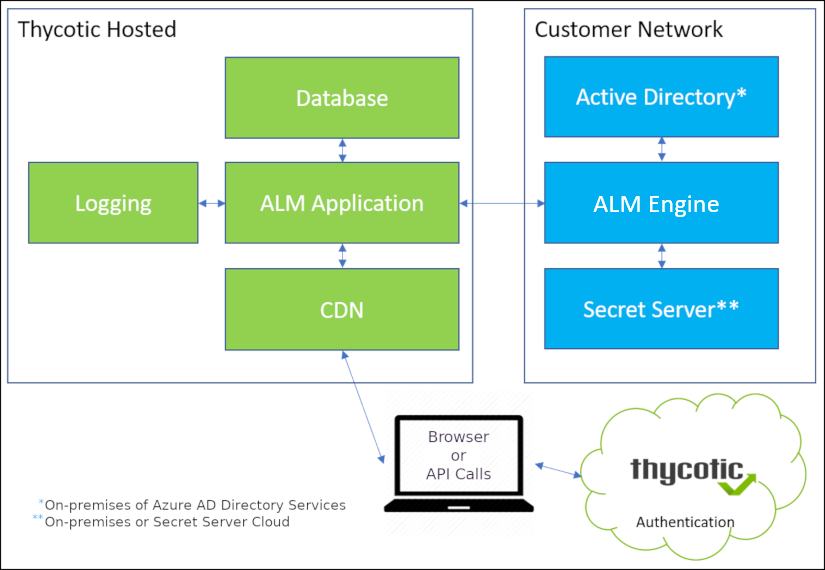
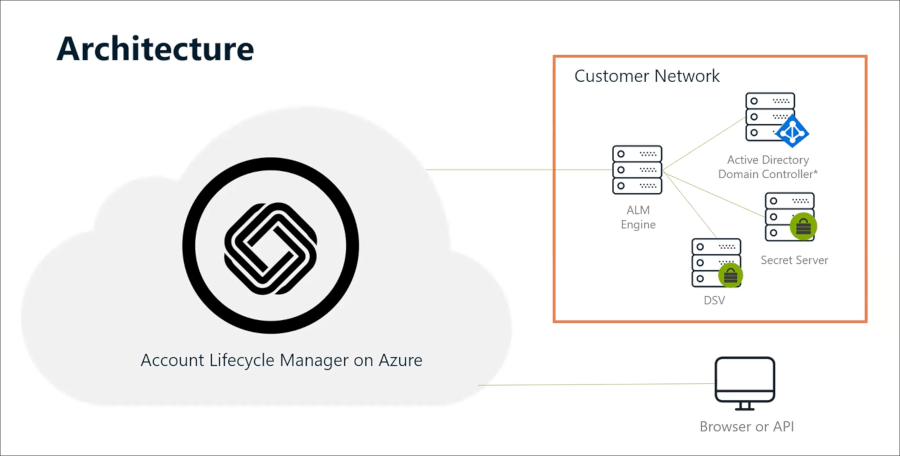
recovery edits batch main

diff --git a/release-notes.md b/release-notes.md
@@ -10,9 +10,19 @@ This article tracks those changes to ALM. Highlights of the most recent update a
 
 ## December 2019 Release Highlights
 
-With December’s release, Account Lifecycle Manager gained more robust Active Directory user synchronization, with formerly separate sync operations consolidated to obtain full domain synchronization. Two new built-in objects, the Everyone Group and the Account Owner Role, combine to remove much of the administrative overhead for the bulk of ALM users. Finally, a matured Remote Worker has taken on a new name, ALM Engine, to better indicate its nature, and its recently released beta features continue to mature with the December release.
+ALM has increased Secret Server support by adding DevOps Secrets Vault as a vault option for managed accounts.
 
-### Beta Feature Release: ALM Engine Configuration Website Tool
+ALM’s Active Directory syncing features improved via consolidation of formerly separate syncs. Syncs that until now had to be run separately for particular types of AD objects now can be run together as a single operation.
+
+A new tool allows you to select a specific AD Group and have its AD Accounts imported and subsequently synced on a schedule.
+
+A new built-in ALM Group, Everyone, automatically includes all ALM Users and applies thereby the new built-in Role of Account Owner, allowing a user to view their owned (assigned) accounts.
+
+The Remote Worker has been renamed ALM Engine to make its function more readily understood, and its beta features previewed in November continue to be available in December as they mature.
+
+New UI detailing on Left Panel Wizards and certain detail pages provide improved context and cognitive cueing about items displayed to (and actions requested of) the user.
+
+## Beta Feature Release: ALM Engine Configuration Website Tool
 
 On successful installation of an ALM Engine on a machine, a website hosted locally on that machine will be set to automatically load to provide an interface and toolset for configuring the Secret Server vault, setting up the External Domain (Active Directory), and creating ALM Engine Pools. This should streamline the overall setup process for ALM Engines.
 
@@ -22,9 +32,12 @@ In this December’s second monthly release of the feature in beta, it remains s
 
 | **Update**             | **Notes**                                                                                                                                                           |
 |------------------------|---------------------------------------------------------------------------------------------------------------------------------------------------------------------|
-| December 2019          | improvement: syncing with Active Directory now takes less effort, with sync consolidation more automated and secured                                                |
-|                        | a new built-in Everyone Group and Account Owner Role combine to remove much administrative overhead for the bulk of ALM users                                       |
-|                        | the Remote Worker tool, now named ALM Engineer, continues to mature, with its advanced configuration tool again available this month in beta                         |
+| December 2019          | improvement: increased Secret Server support with DSV now a vault option for managed accounts                                                                       |
+|                        | improvement: syncing features improved via consolidation of formerly separate syncs to run as a single operation                                                    |
+|                        | improvement: new tool allows selection of a specific AD Group for its AD Accounts to be imported and then synced on a schedule                                      |
+|                        | improvement: new built-in ALM Group “Everyone” includes all ALM Users; applies new built-in Role of “Account Owner” to let users see their assigned accounts        |
+|                        | improvement: the Remote Worker renamed ALM Engine for clarity; beta features previewed in November continue to be available in December as they mature              |
+|                        | improvement: new UI detailing on Left Panel Wizards and certain detail pages creates more context and helps customers navigate                                      |
 |                        |                                                                                                                                                                     |
 | November 2019          | improvement: the Active Directory Account Discovery tool now supports New Account Notification to help ensure all AD accounts benefit from ALM governance tools     |
 |                        | improvement: new ALM Engine Calibration feature automates the determination of what ALM Engines have access to what Vaults and AD farms                             |

diff --git a/index.md b/index.md
@@ -6,7 +6,14 @@
 
 ---
 
-In December, consolidation brought improved efficiency and ease of use for ALM’s Active Directory syncing features. Formerly separately initiated syncs with Active Directory may now be performed as single operations. Additionally, a new built-in ALM group, Everyone, automatically includes all ALM users and applies a new built-in Account Owner Role. The Remote Worker has been renamed ALM Engine to make its function more readily understood, and its beta features previewed in November continue to be available in December as they mature.
+The December update to Account Lifecycle Manager brought a number of improvements:
+
+* The release extended support for Secret Server by adding DevOps Secrets Vault as a vault option for managed accounts.
+* Consolidation brought improved efficiency and ease of use to ALM’s Active Directory syncing features. Syncs that until now had to be run separately for particular types of AD objects now can be run together as a single operation.
+* A new tool allows you to select a specific AD Group and have its AD Accounts imported and subsequently synced on a schedule.
+* A new built-in ALM Group, Everyone, automatically includes all ALM Users and applies thereby the new built-in Role of Account Owner. The Account Owner role allows a user to view their owned accounts.
+* The Remote Worker has been renamed ALM Engine to make its function more readily understood, and its beta features previewed in November continue to be available in December as they mature.
+* New UI detailing on Left Panel Wizards and certain detail pages provide improved context and cognitive cueing about items displayed to (and actions requested of) the user.
 
 ---
 

diff --git a/get-started/integ-dsv/index.md b/get-started/integ-dsv/index.md
@@ -1,0 +1,24 @@
+[title]: # (Integrate ALM with DevOps Secrets Vault)
+[tags]: # (Account Lifecycle Manager,ALM,Active Directory,DevOps Secrets Vault,DSV)
+[priority]: # (5145)
+
+# Integrate ALM with DevOps Secrets Vault
+
+ALM integrates with Thycotic’s DevOps Secrets Vault (DSV) for storage and management of Account credentials. 
+
+Use these steps to integrate ALM with DevOps Secrets Vault:
+
+* in ALM, navigate to **Vaults** and select **Create Vault**
+* a modal pane will appear; open its **Template** drop-down and select *Thycotic DevOps Secrets Vault*
+* use **Next** to confirm that selection; then fill in the information it requires:
+  * the **Thycotic DevOps Secrets Vault Display Name** entry is the vault label in ALM that distinguishes it from other vaults 
+  * the **DevOps Secrets Vault URL** specifies the URL of your DevOps Secrets Vault instance 
+  * the **ClientID** records the Client ID of your DevOps Secrets Vault instance
+  * the **ClientSecret** is the password for your ClientID
+* use **Save** to confirm your entries 
+
+Once you have added it, you can select DevOps Secrets Vault as a vault option when creating Workflow Templates.
+
+* Requests made based on Workflow Templates that have a DevOps Secrets Vault will use DevOps Secrets Vault for the storage and management of Account credentials. 
+
+

diff --git a/get-started/create-roles/index.md b/get-started/create-roles/index.md
@@ -17,11 +17,13 @@ ALM supplies several default Roles, as in the following table, that your organiz
   
 | Default ALM Role     | Permissions                                      | 
 |----------------------|--------------------------------------------------|
+| Account Owner        | read managed Account                             |
+|                      | update managed Account
 | Provision Requester  | request a new Account                            |
 | Provision Approver   | Approve Requests                                 |
 | System Administrator | authorize all Role types                         |
 |                      | create Workflow Templates                        |
-|                      | set up ALM Engines                            |
+|                      | set up ALM Engines                               |
 |                      | perform ALM Integration with Active Directory    |
 |                      | perform ALM Integration with Secret Server       |
 

diff --git a/get-started/create-users/index.md b/get-started/create-users/index.md
@@ -30,7 +30,7 @@ Continue until you have created the ALM Users that enable your organization’s 
 
 Note that:
 
-* All ALM users automatically belong to a built-in Group called **Everyone**.
-* Membership in Everyone onfers status as an **Account Owner** without conferring any privileges beyond those of an Account Owner.
-* An Account Owner cannot do anything in ALM except see Accounts assigned to the Account Owner.
-* To act on assigned Accounts, the Account Owner would require additional permissions such as the capacity to approve or decline these requests for credentials. 
+* All ALM Users automatically belong to a built-in Group called **Everyone**.
+* The built-in Role called **Account Owner** cannot be removed from the **Everyone** Group.
+* Accordingly, all ALM Users have the Account Owner Role.
+* An Account Owner can read and update Accounts that the User has been assigned, that is, Accounts for which they are the Account Owner.

diff --git a/alm-objects/custom-roles.md b/alm-objects/custom-roles.md
@@ -65,7 +65,7 @@ In defining a Custom Role, you specify the permissions the Custom Role holds in 
 
 **ALM Engine**: A User must have ALM Engine permissions to download the installer for the ALM Engine Windows Service. This permission also enables the User to view in ALM the list of installed ALM Engines and assign ALM Engines to ALM Engine Pools.
 
-**Role**: The Roles permission enables a User to create Custom Roles and assign Users to them. It also allows the User to add Users to the standard Requester, Approver, and System Administrator Roles.
+**Role**: The Roles permission enables a User to create Custom Roles and assign Users to them. It also allows the User to add Users to the standard Account Owner, Requester, Approver, and System Administrator Roles.
 
 **User**: Users with permissions to the User feature can add, remove, or update User accounts, including to designate whether a User is an Approver or Requester.
 

diff --git a/alm-objects/index.md b/alm-objects/index.md
@@ -24,7 +24,13 @@ An ALM **Role** object exists to define the ALM privileges appropriate for a par
 
 * ALM Roles have **nothing to do** with Active Directory Roles and should not be confused with them.
 
-Thycotic provisions ALM with several Roles already set up—Requester, Approver, and System Administrator—and for most organizations these will suffice for initial operations.
+Thycotic provisions ALM with several Roles already set up—Account Owner, Requester, Approver, and System Administrator—and for most organizations these will suffice for initial operations.
+
+### Account Owner
+
+The Account Owner Role is fixed to the built-in Everyone Group that contains all users in ALM, so all users automatically have the Account Owner Role.
+
+This role provides entry level features and permissions sufficient for a user to read and update managed accounts assigned to them (that is, that they own).
 
 ### Requester
 

diff --git a/alm-admin/index.md b/alm-admin/index.md
@@ -68,4 +68,4 @@ The ALM Engine Calibration Job connects with the ALM Engines, tasking each one t
 * ALM Engines that did not authenticate will not appear on the list.
 * If no ALM Engine authenticated, the Vault Details page will indicate that “No ALM Engines calibrated to integration.”
 
-A ALM Engines Calibration Job runs as part of any Scheduled Sync for a Vault, with the list of successfully authenticating ALM Engines updating on completion of the sync job.
+An ALM Engines Calibration Job runs as part of any Scheduled Sync for a Vault, with the list of successfully authenticating ALM Engines updating on completion of the sync job.

diff --git a/get-started/reqs-ver/index.md b/get-started/reqs-ver/index.md
@@ -38,7 +38,7 @@ For details on integration with Active Directory, see [Integrate ALM with Active
 
 ## ALM Engine Windows Service
 
-Often initially misunderstood as an actual staff member, the ALM Engine is a Windows Service that runs on a machine in your organization’s environment.
+The ALM Engine is a Windows Service that runs on a machine in your organization’s environment.
 
 * In software jargon, a “worker” is a process or service that runs to a large degree independently of the main body of software to which it belongs, and that performs tasks the main body of software cannot perform for itself.
 

diff --git a/get-started/index.md b/get-started/index.md
@@ -30,6 +30,7 @@ Getting started with ALM requires these tasks:
 * set up an ALM Engine
 * integrate with Active Directory
 * integrate with Secret Server
+* integrate with DevOps Secrets Vault
 * create ALM Groups
 * create ALM Roles
 * create ALM Users
